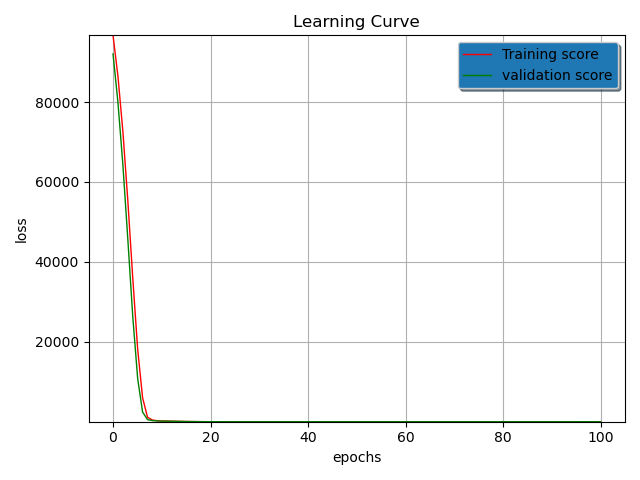
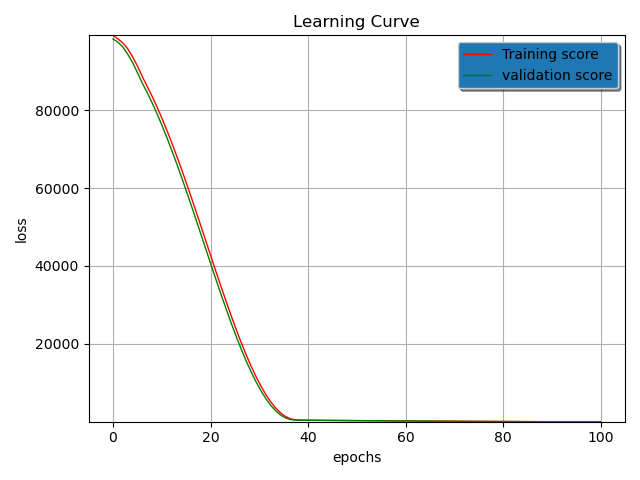
rolling data

diff --git a/preprocessing.py b/preprocessing.py
@@ -9,28 +9,35 @@ import pandas as pd
 import numpy as np
 
 np.random.seed(0)
-
+header = ["day " + str(int(i / 2) + 1) if i % 2 == 1 else "day " + str(int(i / 2)) + " date" for i in
+                range(1, 63)]
 def combine_prices():
     directory = os.path.join("./historical_price/")
     all_files = glob.glob(directory + "*")
-    combined_prices = open('combined_prices.csv','a')
     isHeader = True
-    headers = ""
     for file in all_files:
+        combined_prices = open('combined_prices_rl.csv', 'a')
         temp = pd.read_csv(file)
-        temp['company'] = file.split('\\')[-1].split('_')[0]
-        temp = temp.drop(temp.columns[0], axis=1)
-        headers = temp.columns
-        temp['t'] = temp['t'].apply(lambda x : x[:10])
+        filename = "./historical_price_df/" + file.split('\\')[-1].split('_')[0] + ".pkl"
+        temp['t'] = temp['t'].apply(lambda x: x[:10])
         dates = temp['t'].unique()
         filtered_data = []
         for date in dates:
             prices_of_date = temp[(temp.t == date)]
-            prices_of_date = prices_of_date.sample(n=50 if len(prices_of_date) > 50 else len(prices_of_date), random_state=0)
-            filtered_data.append(prices_of_date)
+            # prices_of_date = prices_of_date.sample(n=50 if len(prices_of_date) > 50 else len(prices_of_date), random_state=0)
+            filtered_data.append(prices_of_date.iloc[[0]])
         temp = pd.concat(filtered_data).reset_index(drop=True)
-        print(temp.head)
-        temp.to_csv('temp.csv')
+        closes = temp['c'].values
+        data = []
+        for i in range(30, len(closes)):
+            arr = []
+            for j in range(i-30, i+1):
+                arr.append(closes[j])
+                arr.append(dates[j])
+            data.append(np.array(arr))
+        data = pd.DataFrame(data, columns=header)
+        data['company'] = file.split('\\')[-1].split('_')[0]
+        data.to_csv('temp.csv')
         with open('temp.csv', 'r') as f:
             for line in f:
                 if isHeader:
@@ -38,19 +45,20 @@ def combine_prices():
                     continue
                 combined_prices.write(line)
             isHeader = True
-    combined_prices.close()
+        combined_prices.close()
     # df = df.drop(df.columns[0], axis=1)
     # df = df.dropna()
     # print(df.head)
 
-# combine_prices()
-header = ['drop','v','vw','o','c','h','l','t','n','company']
+combine_prices()
+header.insert(0,'drop')
+header.append('company')
 
 
 def moodData():
     with open('date_to_moods.json') as f:
         moods = json.load(f)
-    df = pd.read_csv('combined_prices.csv', names=header)
+    df = pd.read_csv('combined_prices_rl.csv', names=header)
     df = df.drop('drop', axis=1)
     df['calm'] = df.apply(lambda x : moods.get(x['t'],[0,0,0,0])[0], axis=1)
     df['happy'] = df.apply(lambda x: moods.get(x['t'], [0, 0, 0, 0])[1], axis=1)
@@ -61,10 +69,11 @@ def moodData():
     df = df.sample(frac=1, random_state=0)
     df.to_pickle('mood.pkl')
 
-def finberData():
-    with open('finbert.json') as f:
+def finberData(summarize = False):
+    filename = 'finbert_with_summarize' if summarize else 'finbert'
+    with open(filename + '.json') as f:
         finbertJSON = json.load(f)
-    df = pd.read_csv('combined_prices.csv', names=header)
+    df = pd.read_csv('combined_prices_rl.csv', names=header)
     df = df.drop('drop', axis=1)
     def getFinData(x, dataName):
         try:
@@ -78,16 +87,16 @@ def finberData():
     df['finbert_negative'] = df.apply(lambda x : getFinData(x, 'negative'), axis=1)
     df['finbert_neutral'] = df.apply(lambda x: getFinData(x, 'neutral'), axis=1)
     df['finbert_positive'] = df.apply(lambda x: getFinData(x, 'positive'), axis=1)
-    df['finbert_sentiment_score'] = df.apply(lambda x: getFinData(x, 'sentiment_score'), axis=1)
+    # df['finbert_sentiment_score'] = df.apply(lambda x: getFinData(x, 'sentiment_score'), axis=1)
     df = df.drop('t', axis=1)
     df = df.drop('company', axis=1)
     df = df.sample(frac=1, random_state=0)
-    df.to_pickle('finbert.pkl')
+    df.to_pickle(filename + '.pkl')
 
 def vaderData():
     with open('date_to_company_to_vader.json') as f:
         vaderJSON = json.load(f)
-    df = pd.read_csv('combined_prices.csv', names=header)
+    df = pd.read_csv('combined_prices_rl.csv', names=header)
     df = df.drop('drop', axis=1)
     def getVaderData(x, dataName):
         try:
@@ -113,7 +122,7 @@ def SRAFData():
 
     with open('date_to_company_to_sraf.json') as f:
         srafJSON = json.load(f)
-    df = pd.read_csv('combined_prices.csv', names=header)
+    df = pd.read_csv('combined_prices_rl.csv', names=header)
     df = df.drop('drop', axis=1)
     def getSRAFData(x, dataName):
         try:
@@ -137,13 +146,13 @@ def SRAFData():
 def allData():
         with open('date_to_moods.json') as f:
             moods = json.load(f)
-        with open('finbert.json') as f:
+        with open('finbert_with_summarize.json') as f:
             finbertJSON = json.load(f)
         with open('date_to_company_to_vader.json') as f:
             vaderJSON = json.load(f)
         with open('date_to_company_to_sraf.json') as f:
             srafJSON = json.load(f)
-        df = pd.read_csv('combined_prices.csv', names=header)
+        df = pd.read_csv('combined_prices_rl.csv', names=header)
         df = df.drop('drop', axis=1)
         df['calm'] = df.apply(lambda x: moods.get(x['t'], [0, 0, 0, 0])[0], axis=1)
         df['happy'] = df.apply(lambda x: moods.get(x['t'], [0, 0, 0, 0])[1], axis=1)
@@ -161,7 +170,7 @@ def allData():
         df['finbert_negative'] = df.apply(lambda x: getFinData(x, 'negative'), axis=1)
         df['finbert_neutral'] = df.apply(lambda x: getFinData(x, 'neutral'), axis=1)
         df['finbert_positive'] = df.apply(lambda x: getFinData(x, 'positive'), axis=1)
-        df['finbert_sentiment_score'] = df.apply(lambda x: getFinData(x, 'sentiment_score'), axis=1)
+        # df['finbert_sentiment_score'] = df.apply(lambda x: getFinData(x, 'sentiment_score'), axis=1)
         def getVaderData(x, dataName):
             try:
                 lst = vaderJSON[x['t']][x['company']]
@@ -199,8 +208,26 @@ def allData():
 # finberData()
 # vaderData()
 # SRAFData()
-
-df = pd.read_pickle('sraf.pkl')
+# finberData(summarize=True)
+# allData()
+method_name = 'alldata'
+# finbert = pd.read_pickle('finbert_with_summarize.pkl')
+# vader = pd.read_pickle('vader.pkl')
+# df = pd.read_pickle('sraf.pkl')
+# mood = pd.read_pickle('mood.pkl')
+# df['finbert_negative'] = pd.Series(finbert['finbert_negative'])
+# df['finbert_positive'] = pd.Series(finbert['finbert_positive'])
+# df['finbert_neutral'] = pd.Series(finbert['finbert_neutral'])
+# df['vader_negative'] = pd.Series(vader['vader_negative'])
+# df['vader_positive'] = pd.Series(vader['vader_positive'])
+# df['vader_neutral'] = pd.Series(vader['vader_neutral'])
+# df['vader_compound'] = pd.Series(vader['vader_compound'])
+# df['calm'] = pd.Series(mood['calm'])
+# df['kind'] = pd.Series(mood['kind'])
+# df['alert'] = pd.Series(mood['alert'])
+# df['happy'] = pd.Series(mood['happy'])
+# df.to_pickle('alldata.pkl')
+df = pd.read_pickle('alldata.pkl')
 print(df.head)
 df = df.dropna()
 ts = 0.2

diff --git a/create_neural_network.py b/create_neural_network.py
@@ -15,16 +15,19 @@ print(device_lib.list_local_devices())
 # mood: lr=0.000003, num_Nodes=12, dropout=0.2, final_activation='relu',
 #                    loss_function='mean_squared_error', 1 layer relu.
 # testing result: [0.03302876278758049, 0.03302876278758049]
-# finbert: lr=0.000009, num_Nodes=12, dropout=0.2, final_activation='relu',
+# finbert: lr=0.000002, num_Nodes=12, dropout=0.2, final_activation='relu',
 #                    loss_function='mean_squared_error', 1 layer relu.
-#  testing result: [0.03783221170306206, 0.03783221170306206]
+#  testing result: [0.03307422250509262, 0.03307422250509262]
 # vader: lr=0.000003, num_Nodes=12, dropout=0.2, final_activation='relu',
 #                    loss_function='mean_squared_error', n=n
 # testing result: [0.03601681813597679, 0.03601681813597679]
 # sraf: lr=0.000003, num_Nodes=12, dropout=0.2, final_activation='relu',
 #                    loss_function='mean_squared_error', n=n
 # testing result: [0.03323354199528694, 0.03323354199528694]
-def create_network(lr=0.000003, num_Nodes=12, dropout=0.2, final_activation='relu',
+# finbert_with_summarize: lr=0.000003, num_Nodes=12, dropout=0.2, final_activation='relu',
+#                    loss_function='mean_squared_error', n=n
+# testing result: [0.03334576264023781, 0.03334576264023781]
+def create_network(lr=0.0000005, num_Nodes=12, dropout=0.1, final_activation='relu',
                    loss_function='mean_squared_error', n=n):
 
     model = Sequential()
@@ -37,7 +40,7 @@ def create_network(lr=0.000003, num_Nodes=12, dropout=0.2, final_activation='rel
                   metrics=['mean_squared_error'])
     return model
 
-epochs = 100
+epochs = 400
 
 # Build an ANN with 20% validation set using create_network. Record the validation loss.
 # wrapper = KerasClassifier(build_fn=create_network, epochs=epochs)
@@ -48,7 +51,7 @@ train_loss = LambdaCallback(on_epoch_end=lambda batch, logs: train_scores.append
 val_loss = LambdaCallback(on_epoch_end=lambda batch, logs: val_scores.append(logs['val_loss']))
 earlystopper = EarlyStopping(monitor='val_loss', patience=epochs/10)
 final_model.fit(x_train,y_train,epochs=epochs, validation_split=0.2, batch_size=1000, verbose=1,
-                callbacks=[train_loss, val_loss])
+                callbacks=[train_loss, val_loss, earlystopper])
 
 #retrain for all training data and save the model
 test_scores = []
@@ -61,7 +64,7 @@ print("testing result:",final_model.evaluate(x_test, y_test))
 
 # Plotting loss curve of training loss, validation loss and test loss
 plt.figure()
-plt.title("Learning Curve")
+plt.title(method_name + " Learning Curve")
 plt.grid()
 
 # plt.fill_between(np.linspace(0,len(train_scores),len(train_scores)), train_scores,

diff --git a/src/sbert/LexRank.py b/src/sbert/LexRank.py
@@ -50,7 +50,7 @@ def _power_method(transition_matrix, increase_power=True):
     while True:
         eigenvector_next = np.dot(transition, eigenvector)
 
-        if np.allclose(eigenvector_next, eigenvector):
+        if np.allclose(eigenvector_next, eigenvector, equal_nan=True):
             return eigenvector_next
 
         eigenvector = eigenvector_next
